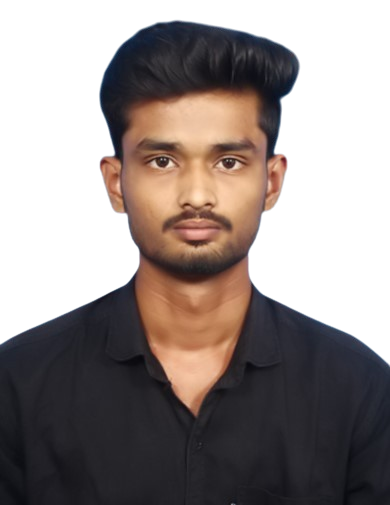
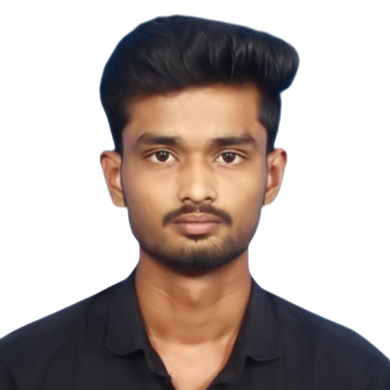
added profile

diff --git a/src/sections/Contact.jsx b/src/sections/Contact.jsx
@@ -6,6 +6,7 @@ import {
 } from "react-icons/ai";
 import { useState, useRef } from "react";
 import emailjs from "@emailjs/browser";
+import { photo } from "../constants/index";
 
 export default function Contact() {
   const form = useRef();
@@ -146,6 +147,15 @@ export default function Contact() {
           </div>
         </div>
         <div className="flex justify-center items-center flex-col gap-5">
+          <div className="flex items-center justify-center">
+            <img
+              src={photo.imgURl}
+              alt={photo.title}
+              width={150}
+              height={150}
+              className="rounded-full grayscale-[70%] transition-all duration-300 hover:grayscale-[0%]"
+            />
+          </div>
           <h4 className="text-shade-green text-2xl font-semibold">
             Connect with me
           </h4>

diff --git a/src/constants/index.js b/src/constants/index.js
@@ -2,6 +2,7 @@ import madrasfoodadvisor from "../assets/images/madrasfoodadvisor.png";
 import breaktheroutine from "../assets/images/breaktheroutine.png";
 import harishLogo from "../assets/icons/harishLogo.png";
 import resumefile from "../assets/resume/Harish_Resume.pdf";
+import harishPhoto from "../assets/images/Photo_WhiteBG.png";
 
 export const logo = {
   imgURL: harishLogo,
@@ -9,6 +10,7 @@ export const logo = {
 };
 
 export const navLinks = [
+  { href: "#home", label: "Home" },
   { href: "#about", label: "About" },
   { href: "#skills", label: "Skills" },
   { href: "#Projects", label: "Projects" },
@@ -40,3 +42,8 @@ export const projects = [
     tools: ["Html", "CSS", "Java Script", "Web API", "Fetch API"],
   },
 ];
+
+export const photo = {
+  imgURl: harishPhoto,
+  title: "Photo of Harish",
+};

diff --git a/src/sections/Hero.jsx b/src/sections/Hero.jsx
@@ -11,7 +11,10 @@ import { Link } from "react-router-dom";
 export default function Hero() {
   return (
     <>
-      <header className="w-full flex items-center justify-center min-h-screen">
+      <header
+        id="home"
+        className="w-full flex items-center justify-center min-h-screen"
+      >
         <div className="w-full pt-[100px] grid grid-cols-1 gap-y-8 items-start lg:grid-cols-2 lg:gap-20">
           <div className="flex justify-center flex-col">
             <p className="text-green text-[18px] mb-2 lg:mb-0 lg:text-[32px] font-medium leading-none">

diff --git a/src/components/Navbar.jsx b/src/components/Navbar.jsx
@@ -24,7 +24,7 @@ export default function Navbar() {
               HARISH
             </a>
           </div>
-          <ul className="flex justify-center items-center gap-10 max-md:hidden font-[500] text-[20px]">
+          <ul className="flex justify-center items-center gap-8 max-md:hidden font-[500] text-[20px]">
             {navLinks.map((nav) => (
               <a key={nav.label} href={nav.href}>
                 <li className="px-3 py-1 custom-gradient hover:text-black">

diff --git a/tailwind.config.js b/tailwind.config.js
@@ -46,6 +46,10 @@ export default {
         right: "right",
         left: "left",
       },
+      grayscale: {
+        70: "70%",
+        0: "0%",
+      },
     },
   },
   plugins: [],
